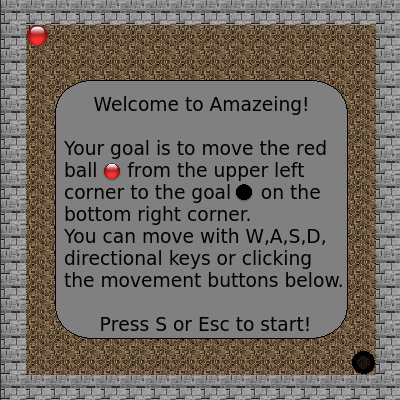
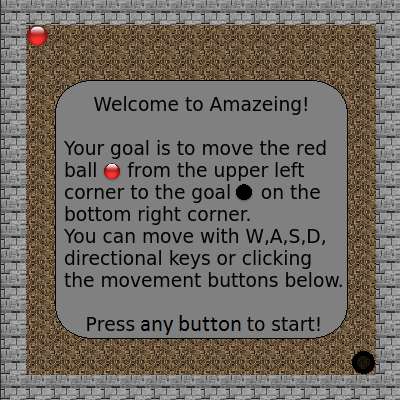
Added changing ball color and started Highscores.

Changed region(s): [[0.21, 0.78, 0.81, 0.84]]

diff --git a/src/Amazeing.java b/src/Amazeing.java
@@ -15,12 +15,17 @@ public class Amazeing extends JFrame {
     private int mazeSize = 25*16;
     private Board board;
     private JLabel time;
+    private JLabel map;
+    private JLabel highscore;
+    private int chosenMap = 1;
+    private String chosenBall = "red";
 
     private Amazeing() {
 
         initMenuBar();
         initUI();
         watch();
+        updateUI();
     }
     /* Initializing the menuBar. */
     private void initMenuBar() {
@@ -32,18 +37,19 @@ public class Amazeing extends JFrame {
         game.setMnemonic(KeyEvent.VK_A);
         help.setMnemonic(KeyEvent.VK_H);
 
-        /*Creating Reset menuItem. */
+        /* Creating Reset menuItem. */
         JMenuItem menuReset = new JMenuItem("Reset the map");
         menuReset.setMnemonic(KeyEvent.VK_R);
         menuReset.setToolTipText("Reset the ongoing map");
         menuReset.addActionListener(event -> board.resetMap());
 
+        /* Creating ChooseMap menuItem. */
         JMenuItem menuChooseMap = new JMenuItem("Choose map");
         menuChooseMap.setMnemonic(KeyEvent.VK_R);
         menuChooseMap.setToolTipText("Choose which map to play.");
         menuChooseMap.addActionListener(event -> showMap());
 
-        /*Creating Exit menuItem. */
+        /* Creating Exit menuItem. */
         JMenuItem menuExit= new JMenuItem("Exit");
         menuExit.setMnemonic(KeyEvent.VK_E);
         menuExit.setToolTipText("Exit application");
@@ -59,9 +65,7 @@ public class Amazeing extends JFrame {
         JMenuItem menuHighScore = new JMenuItem("Highscores");
         menuHighScore.setMnemonic(KeyEvent.VK_H);
         menuHighScore.setToolTipText("Show the highscores of the maps.");
-        menuHighScore.addActionListener(event -> {
-        // TODO: show highscore according to which map you're in.
-        });
+        menuHighScore.addActionListener(event -> showScores());
 
           /* Creating Settings menuItem. */
         JMenuItem menuSettings = new JMenuItem("Settings");
@@ -73,9 +77,7 @@ public class Amazeing extends JFrame {
         JMenuItem menuSolution = new JMenuItem("Solution");
         menuSolution.setMnemonic(KeyEvent.VK_O);
         menuSolution.setToolTipText("Show the solution to this map.");
-        menuSolution.addActionListener(event -> {
-            showSolution();
-        });
+        menuSolution.addActionListener(event -> showSolution());
 
         /* Adding Reset, Choose map, Highscore, Solution, Settings and Exit into Game, Instructions into Help, and adding them all into menuBar. */
         game.add(menuReset);
@@ -110,6 +112,11 @@ public class Amazeing extends JFrame {
     private void showMap() {
         MapDialog map = new MapDialog(this);
         map.setVisible(true);
+    }
+
+    private void showScores() {
+        ScoresDialog scores = new ScoresDialog(this);
+        scores.setVisible(true);
     }
 
     /* Initializing the UI. */
@@ -156,9 +163,11 @@ public class Amazeing extends JFrame {
         infoBox.setAlignmentX(1f);
         infoBox.setLayout(new BoxLayout(infoBox, BoxLayout.Y_AXIS));
         infoBox.setPreferredSize(new Dimension(130,50));
+        map = new JLabel();
+        highscore = new JLabel();
+        infoBox.add(highscore);
+        infoBox.add(map);
 
-        infoBox.add(new JLabel("Map: 1"));
-        infoBox.add(new JLabel("Highscore: "));
 
         /* Creating time label */
         time = new JLabel();
@@ -193,8 +202,17 @@ public class Amazeing extends JFrame {
                 time.setText("Time:" + board.getTime());
             }
         });
-
         watch.start();
+    }
+
+    private void updateUI () {
+        Thread update = new Thread(() -> {
+            while (true) {
+                map.setText("Map: "+board.getMap());
+                highscore.setText("Highscore: "+board.getHighscore(board.getMap()));
+            }
+        });
+        update.start();
     }
 
     /* -------------  Main  -------------------------------------- */
@@ -220,7 +238,10 @@ public class Amazeing extends JFrame {
             setModalityType(ModalityType.APPLICATION_MODAL);
 
             JButton btn = new JButton("OK");
-            btn.addActionListener(event -> dispose());
+            btn.addActionListener(event -> {
+                board.initVariables(chosenMap, chosenBall, true);
+                dispose();
+            });
 
             JLabel color = new JLabel("Choose your balls color:");
 
@@ -280,20 +301,15 @@ public class Amazeing extends JFrame {
 
         @Override
         public void itemStateChanged(ItemEvent e) {
-
             int selection = e.getStateChange();
             if (selection == ItemEvent.SELECTED) {
                 JRadioButton button = (JRadioButton) e.getSource();
-                String text = button.getText();
-                //TODO: Changing the balls color.
+                chosenBall = button.getText();
             }
         }
     }
 
-
     private class MapDialog extends JDialog implements ItemListener {
-
-        private int chosenMap = 1;
 
         MapDialog(Frame parent) {
             super(parent);
@@ -307,7 +323,7 @@ public class Amazeing extends JFrame {
             setModalityType(ModalityType.APPLICATION_MODAL);
             JButton btn = new JButton("OK");
             btn.addActionListener(event -> {
-                board.initVariables(chosenMap, true);
+                board.initVariables(chosenMap, chosenBall, true);
                 dispose();
             });
 
@@ -340,7 +356,6 @@ public class Amazeing extends JFrame {
             if (selection == ItemEvent.SELECTED) {
                 JRadioButton button = (JRadioButton) e.getSource();
                 chosenMap = Integer.parseInt(button.getText().substring(4, 5));
-                //System.out.println(chosenMap);
             }
         }
 
@@ -388,8 +403,7 @@ public class Amazeing extends JFrame {
             // Create a button and image.
             JButton btn = new JButton("OK");
             btn.addActionListener(event -> dispose());
-            ImageIcon instr = new ImageIcon("src/resources/instructions.png");
-            JLabel instructions = new JLabel(instr);
+            JLabel instructions = new JLabel(new ImageIcon("src/resources/instructions.png"));
 
             createLayout(instructions, btn);
         }
@@ -462,6 +476,20 @@ public class Amazeing extends JFrame {
                     .addGap(20)
             );
             pack();
+        }
+    }
+
+    private class ScoresDialog extends JDialog {
+        ScoresDialog(Frame parent) {
+            super(parent);
+            initScoresDialog();
+        }
+
+        private void initScoresDialog() {
+            setTitle("Highscores");
+            setDefaultCloseOperation(DISPOSE_ON_CLOSE);
+            setLocation(getParent().getLocation());
+            setModalityType(ModalityType.APPLICATION_MODAL);
         }
     }
 }

diff --git a/src/Board.java b/src/Board.java
@@ -24,6 +24,7 @@ public class Board extends JPanel implements ActionListener {
     private boolean paused = false;
     private int blockSize = 25;
     private boolean goalReached = false;
+    private double[] highscore = {0.0, 0.0, 0.0, 0.0};
 
 
     Board() {
@@ -37,31 +38,40 @@ public class Board extends JPanel implements ActionListener {
         setFocusable(true);
         setBackground(Color.BLACK);
 
-        initVariables(1, false);
+        initVariables(1, "red", false);
     }
-    /* Initializing the variables used in Board class. */
-    public void initVariables(int mapNumber, boolean gameStarted) {
+    /* Initializing the variables used in Board class.
+     * Also used when changing the map.
+     * int mapNumber tells which map to initialize, boolean gameStarted tells if a prior game has been initialized before changing maps.*/
+    public void initVariables(int mapNumber, String ballColor, boolean gameStarted) {
 
         inGame = gameStarted;
         paused = false;
         map = new Map(mapNumber);
-        ball = new Ball();
+        ball = new Ball(ballColor);
         timer = new Timer(DELAY, this);
         timer.start();
         watch = new StopWatch();
     }
 
-    public void resetMap(){
-        initVariables(map.getCurrentMap(), true);
+    /* Resets current map to starting point. */
+    void resetMap(){
+        initVariables(map.getCurrentMap(), ball.getColor(), true);
         watch.start();
     }
 
+    /* Returns how much time has elapsed since beginning current map. */
     double getTime() {
         return ((watch.getTime()/1000 + (double)(watch.getTime()/10 - watch.getTime()/1000)) / 100);
     }
 
+    /* Returns the number of which map is currently going on. */
     int getMap() {
         return map.getCurrentMap();
+    }
+
+    double getHighscore(int map) {
+        return highscore[map];
     }
 
     // Painting components.
@@ -69,20 +79,24 @@ public class Board extends JPanel implements ActionListener {
     public void paintComponent(Graphics g) {
         super.paintComponent(g);
         super.requestFocusInWindow();
+
+        /* If already in game, keep drawing the game. If not, then show starting screen */
         if (inGame) {
             if (watch.isSuspended()) {
                 watch.resume();
             }
+
             drawMap(g);
             drawBall(g);
-
             Toolkit.getDefaultToolkit().sync();
+
+            /* If paused, suspend the stopwatch and show pause screen. */
             if (paused) {
                 watch.suspend();
                 showScreen(g, true);
             }
 
-            // System.out.format("Balls coordinates: x = %d y = %d%n", ball.getX(), ball.getY() );
+            /* Check if goal is reached and end the game if so. */
             if (ball.getX() == 14 && ball.getY() == 14) {
                 goalReached = true;
                 System.out.println("GOAL REACHED");
@@ -95,9 +109,12 @@ public class Board extends JPanel implements ActionListener {
     }
 
     private void endGame() {
+        if ( getTime() > highscore[getMap()]) {
+            highscore[getMap()] = getTime();
+        }
+        System.out.format("Map "+getMap()+" highscore = "+highscore[getMap()]);
         watch.suspend();
         inGame = false;
-        System.out.format("Finish time: %s", getTime());
         // notifyObservers?
     }
 
@@ -107,12 +124,14 @@ public class Board extends JPanel implements ActionListener {
         ImageIcon ps = new ImageIcon("src/resources/pause.png");
         Image pause = ps.getImage();
         Image instructions = instr.getImage();
+        Image start = new ImageIcon("src/resources/start.png").getImage();
 
         if (paused) {
             g.drawImage(pause,0,100,this);
             timer.stop();
             System.out.println("Drawing 'Paused'");
-        } else {
+        }
+        else {
             g.drawImage(instructions,0,0,this);
         }
     }
@@ -194,11 +213,10 @@ public class Board extends JPanel implements ActionListener {
                     }
                 }
             } else {
-                if (key == KeyEvent.VK_S || key == KeyEvent.VK_ESCAPE) {
-                    inGame = true;
-                    watch.start();
-                    System.out.println("S pressed");
-                }
+                inGame = true;
+                watch.start();
+                System.out.println("Button pressed");
+
             }
         }
 

diff --git a/src/Ball.java b/src/Ball.java
@@ -9,18 +9,20 @@ public class Ball {
     private int tileX;
     private int tileY;
     private Image image;
+    private String color;
 
-    public Ball() {
+    public Ball(String ballColor) {
 
-        initBall();
+        initBall(ballColor);
     }
     // Initialize ball.
-    private void initBall() {
-
-        ImageIcon ii = new ImageIcon("src/resources/ball.png");
+    private void initBall(String ballColor) {
+        color = ballColor;
+        ImageIcon ii = new ImageIcon("src/resources/ball"+color+".png");
         image = ii.getImage();
         tileX = 1;
         tileY = 1;
+
     }
 
     // Move the ball.
@@ -40,6 +42,8 @@ public class Ball {
     public Image getImage() {
         return image;
     }
+
+    public String getColor() { return color; }
 
 
 }

diff --git a/src/Map.java b/src/Map.java
@@ -41,11 +41,11 @@ public class Map {
     public Image getGoal() { return goal; }
 
     private void openFile(int number) {
-        String pathToMap = "src/resources/Map" + number + ".txt";
+        //String pathToMap = "src/resources/Map" + number + ".txt";
         try {
-            scanner = new Scanner(new File(pathToMap));
+            scanner = new Scanner(new File("src/resources/Map"+number+".txt"));
         } catch(Exception e) {
-            System.out.println("Error while loading the map");
+            System.out.println("Error while loading the map.");
         }
     }
 
